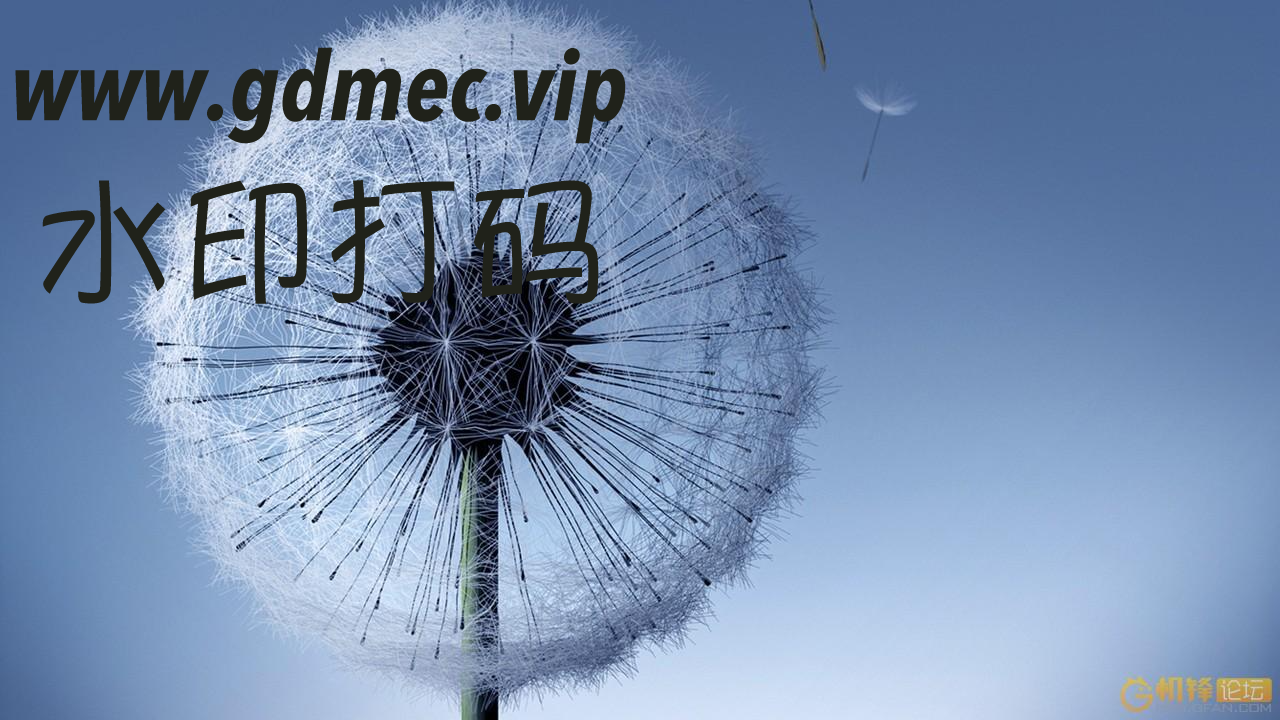
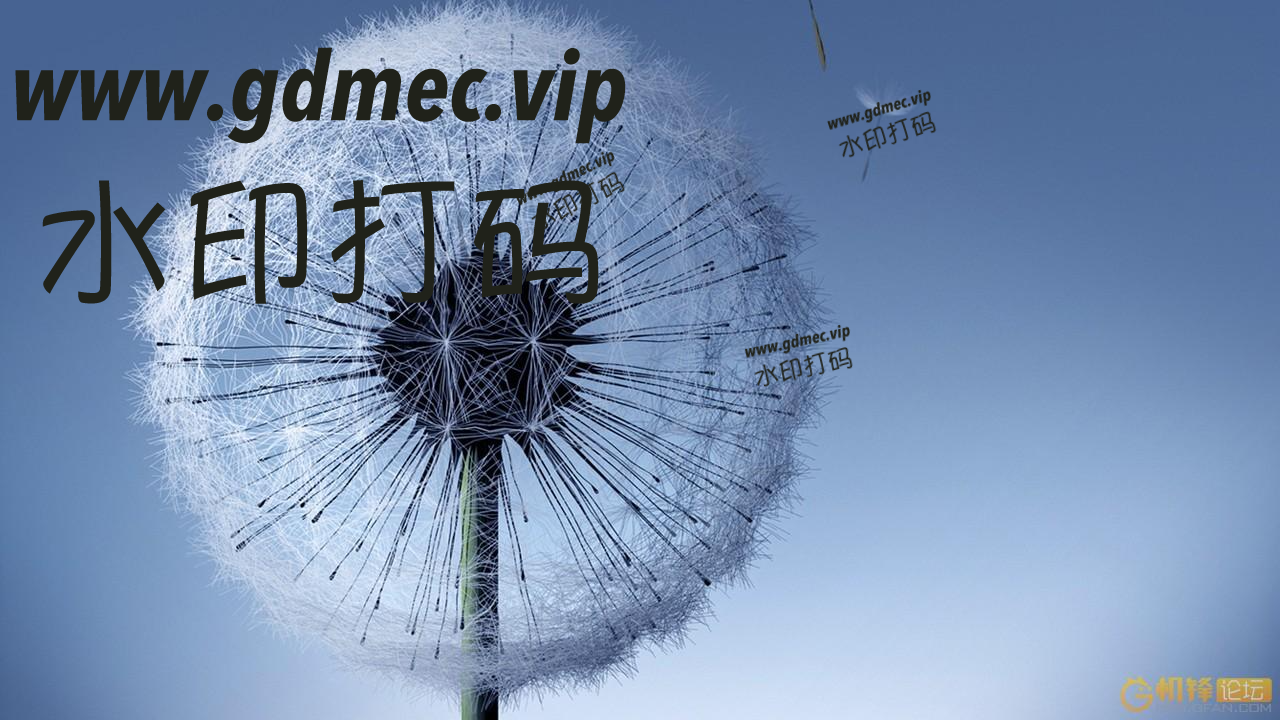
commit

Changed region(s): [[0.625, 0.1222, 0.75, 0.2139], [0.5938, 0.4583, 0.6875, 0.55], [0.4062, 0.2139, 0.5, 0.3056]]

diff --git a/watermark.js b/watermark.js
@@ -3,13 +3,42 @@ const{
     loadImage
 }=require('canvas')
 
+const ratio=0.1
+
 function watermark(pic,wm){
     loadImage(pic).then(myimg=>{
-        loadImage(wm).then(wming=>{
+        loadImage(wm).then(wmimg=>{
             const canvas=createCanvas(myimg.width,myimg.height)
             const ctx=canvas.getContext('2d')
             ctx.drawImage(myimg,0,0)
-            ctx.drawImage(wming,0,0)
+
+            const long=Math.sqrt(wmimg.width*wmimg.width+wmimg.height*wmimg.height)
+            const halflong=long/2
+
+            const bglong=Math.max(myimg.width,myimg.height)
+
+            const signscale=bglong/long*ratio
+
+            const vmlong=long*signscale
+
+            const canvas1=createCanvas(vmlong,vmlong)
+
+            const ctx1=canvas1.getContext('2d')
+
+            ctx1.scale(signscale,signscale)
+
+            ctx1.translate(halflong,halflong)
+
+            ctx.rotate((Math.random()-0.5)*Math.PI/2)
+
+            ctx1.translate(-halflong,-halflong)
+
+            ctx1.drawImage(wmimg,(long-wmimg.width)/2,(long-wmimg.height)/2)
+            
+            const posx=(myimg.width-vmlong)*Math.random()
+            const posy=(myimg.height-vmlong)*Math.random()
+            ctx.drawImage(canvas1,posx,posy)
+
 
             const fs=require('fs')
             const out=fs.createWriteStream(__dirname+'/'+pic)
@@ -21,3 +50,4 @@ function watermark(pic,wm){
 }
 
 module.exports=watermark
+watermark('bg.png','watermark.png')
